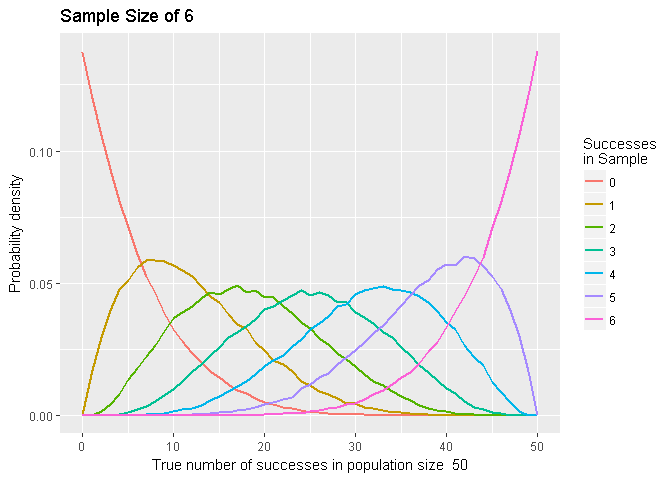
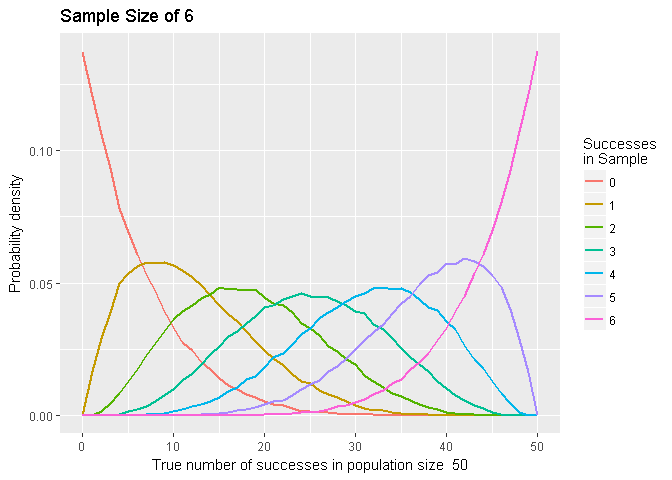
sample pdf plot

diff --git a/hypergeometric_MC_ntbk.md b/hypergeometric_MC_ntbk.md
@@ -83,37 +83,37 @@ print(aggregated_data)
 ```
 
     ##       0    1    2    3    4    5    6    7    8    9   10   11   12   13
-    ## 0 10000 8752 7731 6780 5907 5180 4445 3830 3355 2814 2362 2036 1720 1474
-    ## 1     0 1248 2153 2897 3476 3733 4082 4279 4296 4257 4159 4019 3830 3557
-    ## 2     0    0  116  316  581  991 1294 1616 1917 2301 2660 2849 3014 3224
-    ## 3     0    0    0    7   36   92  168  257  399  561  712  933 1211 1425
-    ## 4     0    0    0    0    0    4   11   17   31   66  102  156  204  287
-    ## 5     0    0    0    0    0    0    0    1    2    1    5    7   21   32
-    ## 6     0    0    0    0    0    0    0    0    0    0    0    0    0    1
+    ## 0 10000 8799 7753 6809 5715 5042 4437 3889 3408 2862 2414 2009 1782 1473
+    ## 1     0 1201 2130 2847 3627 3910 4107 4201 4191 4197 4118 3979 3797 3589
+    ## 2     0    0  117  335  616  935 1270 1636 1969 2319 2639 2863 3014 3200
+    ## 3     0    0    0    9   42  111  179  252  399  549  705  958 1148 1410
+    ## 4     0    0    0    0    0    2    6   22   32   69  117  177  249  299
+    ## 5     0    0    0    0    0    0    1    0    1    4    7   13    9   29
+    ## 6     0    0    0    0    0    0    0    0    0    0    0    1    1    0
     ##     14   15   16   17   18   19   20   21   22   23   24   25   26   27
-    ## 0 1203 1052  847  682  618  484  365  312  226  187  149   97   92   59
-    ## 1 3289 3117 2779 2522 2410 2029 1789 1516 1416 1207  946  840  671  586
-    ## 2 3379 3345 3473 3568 3389 3453 3260 3244 3006 2818 2555 2402 2124 1956
-    ## 3 1672 1893 2145 2289 2473 2656 2928 3006 3185 3308 3450 3329 3408 3314
-    ## 4  411  515  655  801  939 1135 1342 1525 1662 1891 2098 2368 2529 2723
-    ## 5   44   76   97  131  161  228  299  365  450  510  735  848 1049 1171
-    ## 6    2    2    4    7   10   15   17   32   55   79   67  116  127  191
+    ## 0 1276 1023  824  726  568  485  377  298  271  194  126  105   93   75
+    ## 1 3297 3021 2787 2594 2308 2046 1794 1582 1372 1141  948  884  683  587
+    ## 2 3321 3503 3450 3460 3443 3456 3234 3079 3006 2831 2519 2387 2200 1893
+    ## 3 1679 1889 2177 2303 2516 2712 2961 3030 3188 3259 3356 3279 3253 3246
+    ## 4  391  494  666  776  993 1067 1314 1597 1696 1959 2234 2400 2682 2825
+    ## 5   36   65   91  132  158  223  295  375  428  550  732  852  965 1217
+    ## 6    0    5    5    9   14   11   25   39   39   66   85   93  124  157
     ##     28   29   30   31   32   33   34   35   36   37   38   39   40   41
-    ## 0   44   35   29   26   13    7    2    5    2    1    0    0    0    0
-    ## 1  479  330  321  220  186  140   85   81   48   37   23   11    6    3
-    ## 2 1710 1539 1340 1144  938  818  664  515  409  271  206  154  101   69
-    ## 3 3119 3126 2861 2720 2554 2299 2167 1884 1671 1379 1182  961  757  602
-    ## 4 3001 3064 3327 3453 3486 3558 3478 3445 3376 3282 3097 2858 2574 2363
-    ## 5 1413 1606 1784 1998 2253 2483 2742 3025 3300 3588 3721 4009 4143 4117
-    ## 6  234  300  338  439  570  695  862 1045 1194 1442 1771 2007 2419 2846
+    ## 0   54   38   20   19   19    8    3    3    2    2    0    0    0    0
+    ## 1  499  384  287  203  149  128   94   52   41   43   26   11    7    2
+    ## 2 1763 1545 1388 1113  941  761  611  527  422  303  213  170   89   58
+    ## 3 3134 3015 2844 2810 2513 2369 2126 1851 1600 1406 1221  934  743  556
+    ## 4 2966 3145 3268 3344 3495 3520 3456 3489 3371 3191 2978 2884 2592 2358
+    ## 5 1345 1585 1832 2065 2291 2512 2826 3088 3295 3604 3861 3951 4186 4175
+    ## 6  239  288  361  446  592  702  884  990 1269 1451 1701 2050 2383 2851
     ##     42   43   44   45   46   47   48   49    50
     ## 0    0    0    0    0    0    0    0    0     0
-    ## 1    0    1    0    0    0    0    0    0     0
-    ## 2   36   25    7    2    1    0    0    0     0
-    ## 3  392  232  162   91   46    8    0    0     0
-    ## 4 1930 1609 1383  919  623  354  112    0     0
-    ## 5 4375 4312 4099 3823 3458 2893 2167 1208     0
-    ## 6 3267 3821 4349 5165 5872 6745 7721 8792 10000
+    ## 1    2    1    0    0    0    0    0    0     0
+    ## 2   36   26    7    4    1    0    0    0     0
+    ## 3  413  266  186   97   42   11    0    0     0
+    ## 4 1935 1549 1283  937  597  333   98    0     0
+    ## 5 4336 4244 4109 3873 3520 2917 2098 1199     0
+    ## 6 3278 3914 4415 5089 5840 6739 7804 8801 10000
 
 Let's create some plots to help visualize the data First we write a function to plot the the distribution of the observed successes in a sample over the true number of successes in the population.
 
@@ -142,7 +142,9 @@ agg_data_normed <- data.Normalization(aggregated_data, type = "n10", normalizati
 pdf_plot(as.data.frame(t(agg_data_normed)), N)
 ```
 
-![](hypergeometric_MC_ntbk_files/figure-markdown_github/unnamed-chunk-9-1.png) This next plotting function is to examine the distribution of sample successes for a specific number of successes in the population. Multiple population successes are allowed for comparison.
+![](hypergeometric_MC_ntbk_files/figure-markdown_github/unnamed-chunk-9-1.png)
+
+This next plotting function is to examine the distribution of sample successes for a specific number of successes in the population. Multiple population successes are allowed for comparison.
 
 ``` r
 ##  To plot the distribution of successes in samples for a specified number of successes in the population
